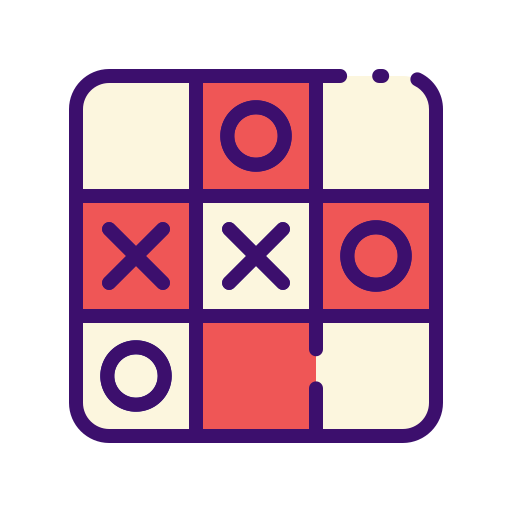
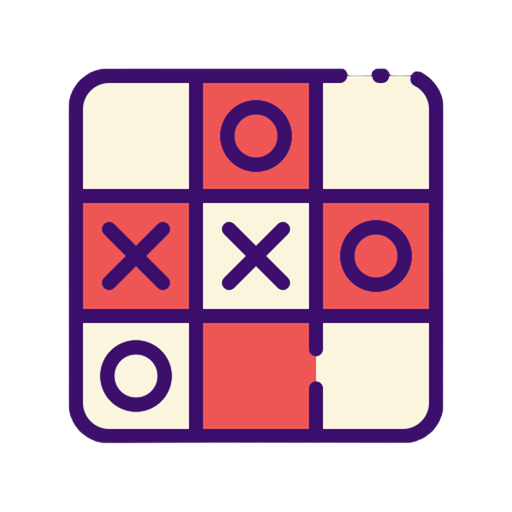
Add files via upload

diff --git a/index.html b/index.html
@@ -23,7 +23,9 @@
         <h2>作成したアプリ</h2>
         <div class="sub_container">
           <div class="item01">
-            <a href="./01_omikuji 01-10/omikuji.html" title="01-10.sound"
+            <a
+              href="./01_omikuji 01-10/01_omikuji 01-01/omikuji.html"
+              title="01-10.sound"
               ><img
                 src="img/omikuji.png"
                 alt="01-10.omikuji"
@@ -44,7 +46,7 @@
           <div class="item01">
             <a href="./01_omikuji_kimetsu/omikuji_kimetsu.html" title="鬼滅の刃"
               ><img
-                src="img/Inosuke.jpg"
+                src="img/Inosuke.png"
                 alt="鬼滅の刃おみくじ"
               /><br />鬼滅の刃<br />おみくじ</a
             >
@@ -56,7 +58,7 @@
               href="./03_calculator_02/calculator.html"
               title="03-02. Calculator（関数）"
               ><img
-                src="img/Cinnamoroll calculator.jpg"
+                src="img/Cinnamoroll calculator.png"
                 alt="簡単な計算機"
               /><br />計算機１</a
             >
@@ -66,7 +68,7 @@
               href="./03_calculator_03/calculator.html"
               title="03-03. Calculator　イコールをボタンにする"
               ><img
-                src="img/calculator.jpg"
+                src="img/calculator.png"
                 alt="簡単な計算機"
               /><br />計算機２</a
             >
@@ -85,7 +87,7 @@
         <div class="sub_container">
           <div class="item01">
             <a href="./04-10_memo/memo.html" title="04-10.EventDelefation"
-              ><img src="img/note.jpg" alt="memo v5" /><br />memo</a
+              ><img src="img/note.png" alt="memo v5" /><br />memo</a
             >
           </div>
         </div>
@@ -113,7 +115,7 @@
           <div class="item02">
             <a href="./08_touch_the_numbers/touch_the_numbers.html" title=""
               ><img
-                src="img/kaba.jpg"
+                src="img/kaba.png"
                 alt="数字を順番に押すゲーム"
               /><br />touch the numbers</a
             >

diff --git a/css/index.css b/css/index.css
@@ -20,7 +20,7 @@ body {
     "Helvetica Neue", Arial, "Hiragino Kaku Gothic ProN", "Hiragino Sans",
     Meiryo, sans-serif;
   text-align: center;
-  background-image: url(../img/ace.jpg); /*★自分で画像を設定すること。*/
+  background-image: url(../img/screen.jpg); /*★自分で画像を設定すること。*/
   background-size: cover;
 }
 